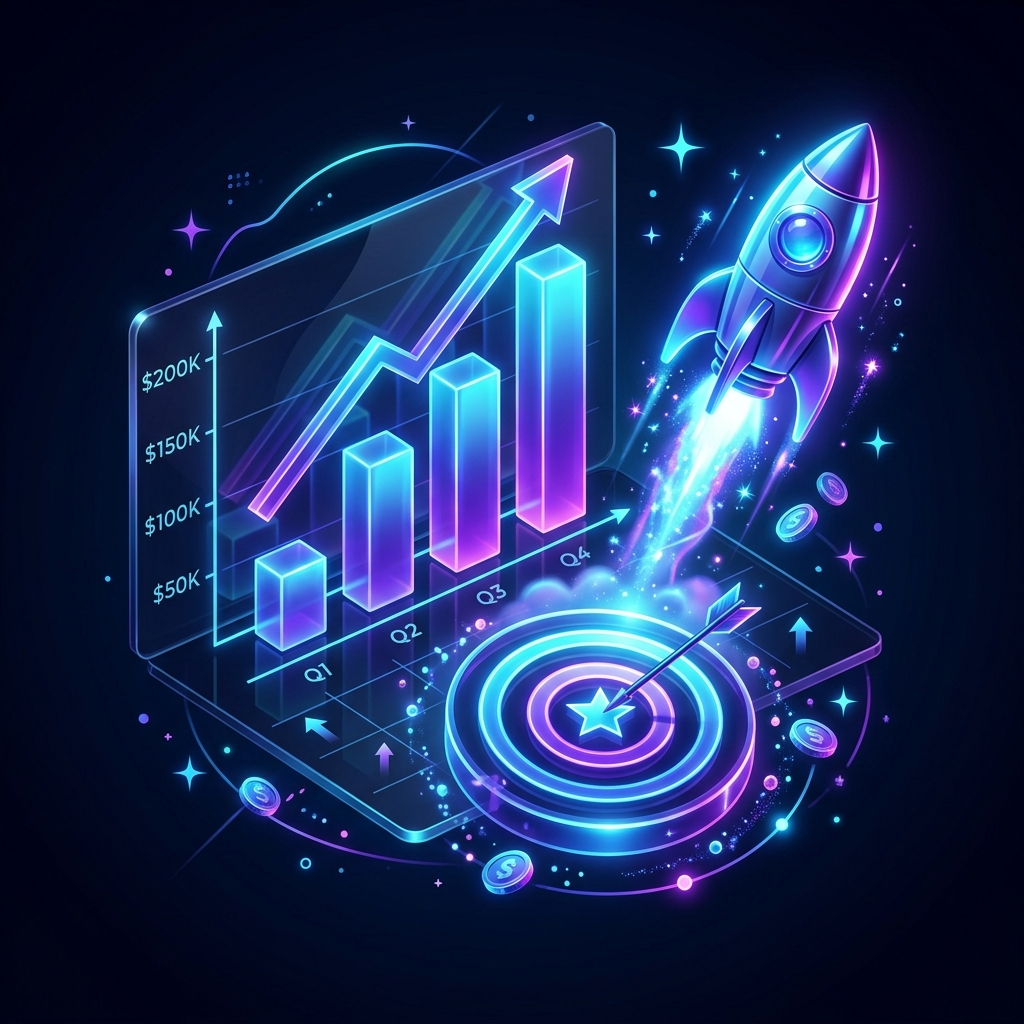
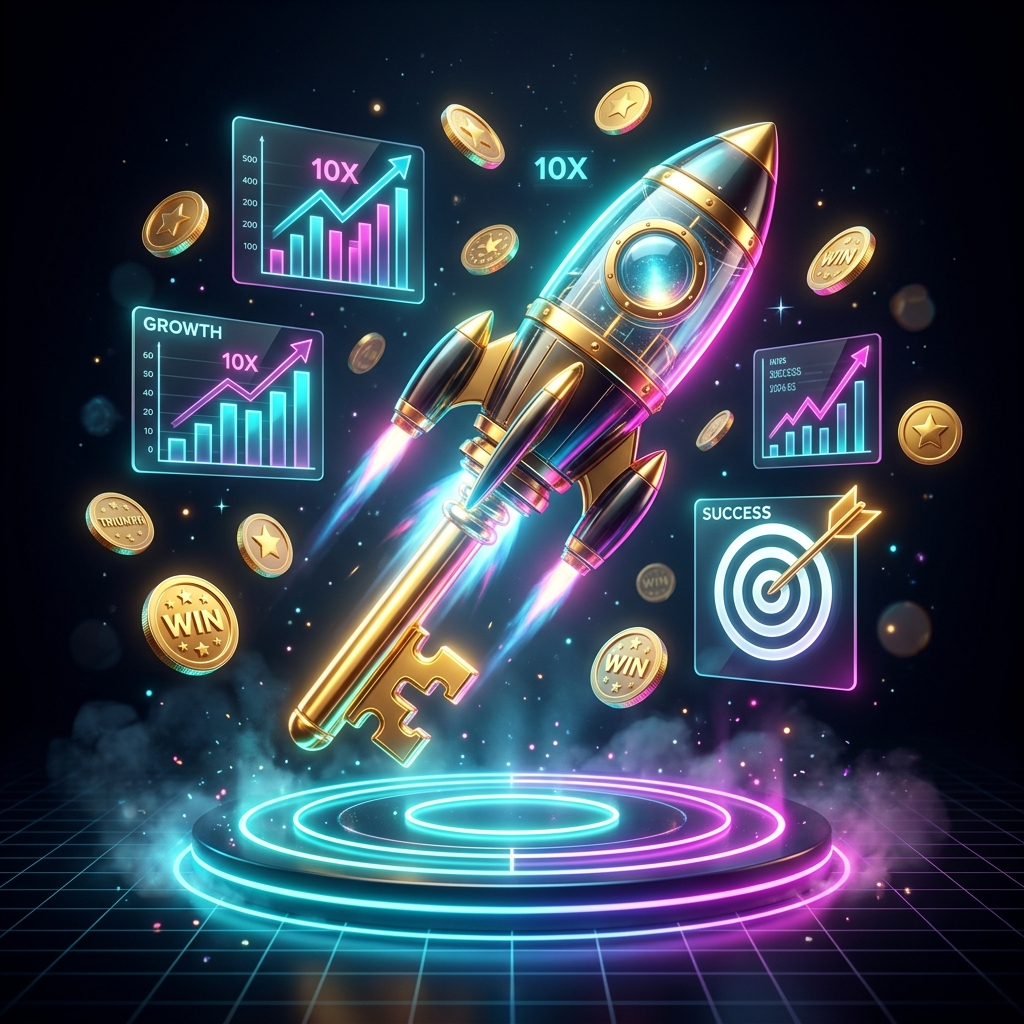
design: rediseñar bienvenida con imagen 3D premium, titulo con gancho y frases rotativas

diff --git a/app.js b/app.js
@@ -546,21 +546,41 @@ const SALES_QUOTES = [
 
 function startQuoteRotation() {
     const quoteEl = document.getElementById("sales-quote");
-    if (!quoteEl) return;
+    const welcomeQuoteEl = document.getElementById("welcome-quote");
+    
+    if (!quoteEl && !welcomeQuoteEl) return;
     
     // Choose a random quote to display initially
     let currentIndex = Math.floor(Math.random() * SALES_QUOTES.length);
-    const initialQuote = SALES_QUOTES[currentIndex];
-    quoteEl.innerHTML = `"${initialQuote.text}" — <strong>${initialQuote.author}</strong>`;
+    
+    if (quoteEl) {
+        const initialQuote = SALES_QUOTES[currentIndex];
+        quoteEl.innerHTML = `"${initialQuote.text}" — <strong>${initialQuote.author}</strong>`;
+    }
+    
+    if (welcomeQuoteEl) {
+        const initialWelcomeQuote = SALES_QUOTES[(currentIndex + 3) % SALES_QUOTES.length];
+        welcomeQuoteEl.innerHTML = `"${initialWelcomeQuote.text}" — <strong>${initialWelcomeQuote.author}</strong>`;
+    }
     
     setInterval(() => {
-        quoteEl.style.opacity = 0;
+        if (quoteEl) quoteEl.style.opacity = 0;
+        if (welcomeQuoteEl) welcomeQuoteEl.style.opacity = 0;
         
         setTimeout(() => {
             currentIndex = (currentIndex + 1) % SALES_QUOTES.length;
-            const quote = SALES_QUOTES[currentIndex];
-            quoteEl.innerHTML = `"${quote.text}" — <strong>${quote.author}</strong>`;
-            quoteEl.style.opacity = 1;
+            
+            if (quoteEl) {
+                const quote = SALES_QUOTES[currentIndex];
+                quoteEl.innerHTML = `"${quote.text}" — <strong>${quote.author}</strong>`;
+                quoteEl.style.opacity = 1;
+            }
+            
+            if (welcomeQuoteEl) {
+                const quoteWelcome = SALES_QUOTES[(currentIndex + 3) % SALES_QUOTES.length];
+                welcomeQuoteEl.innerHTML = `"${quoteWelcome.text}" — <strong>${quoteWelcome.author}</strong>`;
+                welcomeQuoteEl.style.opacity = 1;
+            }
         }, 500);
     }, 8000);
 }

diff --git a/index.html b/index.html
@@ -64,12 +64,16 @@
                         <!-- STEP 1: Welcome Screen (centered layout with image) -->
                         <div class="onboarding-step-slide" id="ob-step-1">
                             <div class="onboarding-welcome-container" style="text-align: center; display: flex; flex-direction: column; align-items: center; justify-content: center; gap: 20px; padding: 10px 0;">
-                                <img src="sales_hero.png" alt="SalesQuest Rocket" class="onboarding-hero-image" style="max-width: 260px; margin-bottom: 10px;">
-                                <h2 style="font-size: 28px; margin: 0; color: var(--text-main); font-family: var(--font-display);">Domina tus Ventas con Inteligencia Emocional</h2>
-                                <p class="onboarding-welcome-text" style="max-width: 600px; color: var(--text-muted); font-size: 14px; line-height: 1.6; margin: 0;">
-                                    Diseña tu ruta de aprendizaje de ventas personalizada. Resuelve objeciones al instante, perfila a tus prospectos en tiempo real y genera cierres de alto impacto emocional.
+                                <img src="sales_hero.png" alt="SalesQuest Rocket Key" class="onboarding-hero-image" style="max-width: 280px; margin-bottom: 5px;">
+                                <h2 style="font-size: 28px; max-width: 650px; margin: 0; color: var(--text-main); font-family: var(--font-display); line-height: 1.3;">La Herramienta Maestra para Convertirte en un Vendedor de 10 y Cerrar Ventas al Instante 🏆</h2>
+                                <p class="onboarding-welcome-text" style="max-width: 600px; color: var(--text-muted); font-size: 14.5px; line-height: 1.6; margin: 0;">
+                                    Diseña tu ruta de aprendizaje de ventas personalizada basada en la psicología de los mejores cerradores. Supera objeciones en vivo con inteligencia emocional y toma el control de cada conversación.
                                 </p>
-                                <button type="button" id="ob-start-btn" class="btn btn-primary btn-glow" style="margin-top: 15px; padding: 14px 32px; font-size: 16px;">
+                                <!-- Frase que toca el corazón (rotativa) -->
+                                <p class="welcome-quote" id="welcome-quote" style="font-style: italic; color: var(--primary); font-size: 14.5px; font-weight: 500; min-height: 44px; max-width: 580px; margin: 5px 0 10px 0; transition: opacity 0.5s ease-in-out; opacity: 1; line-height: 1.5;">
+                                    <!-- Rotating quote here -->
+                                </p>
+                                <button type="button" id="ob-start-btn" class="btn btn-primary btn-glow" style="margin-top: 5px; padding: 14px 32px; font-size: 16px;">
                                     <span>Comenzar mi Ruta 🚀</span>
                                 </button>
                             </div>